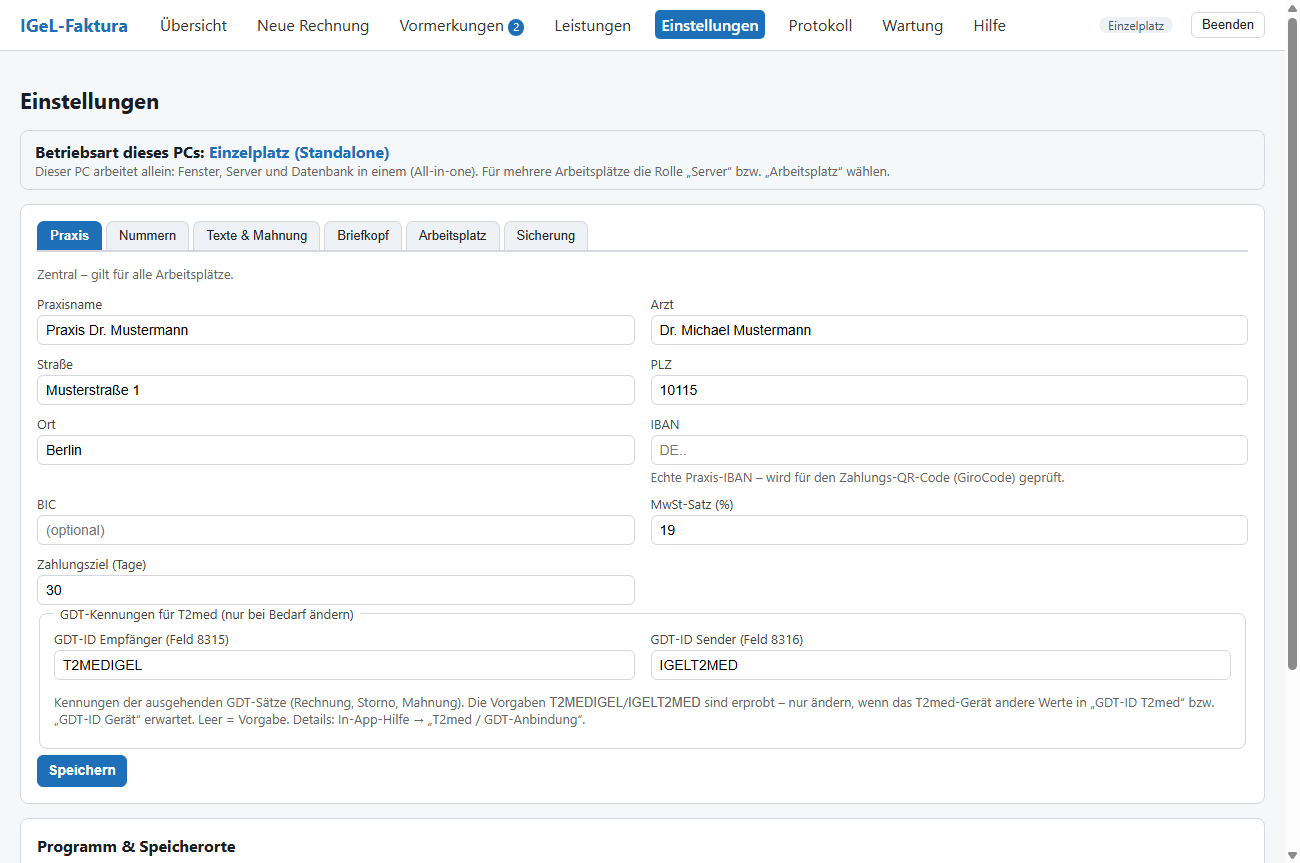
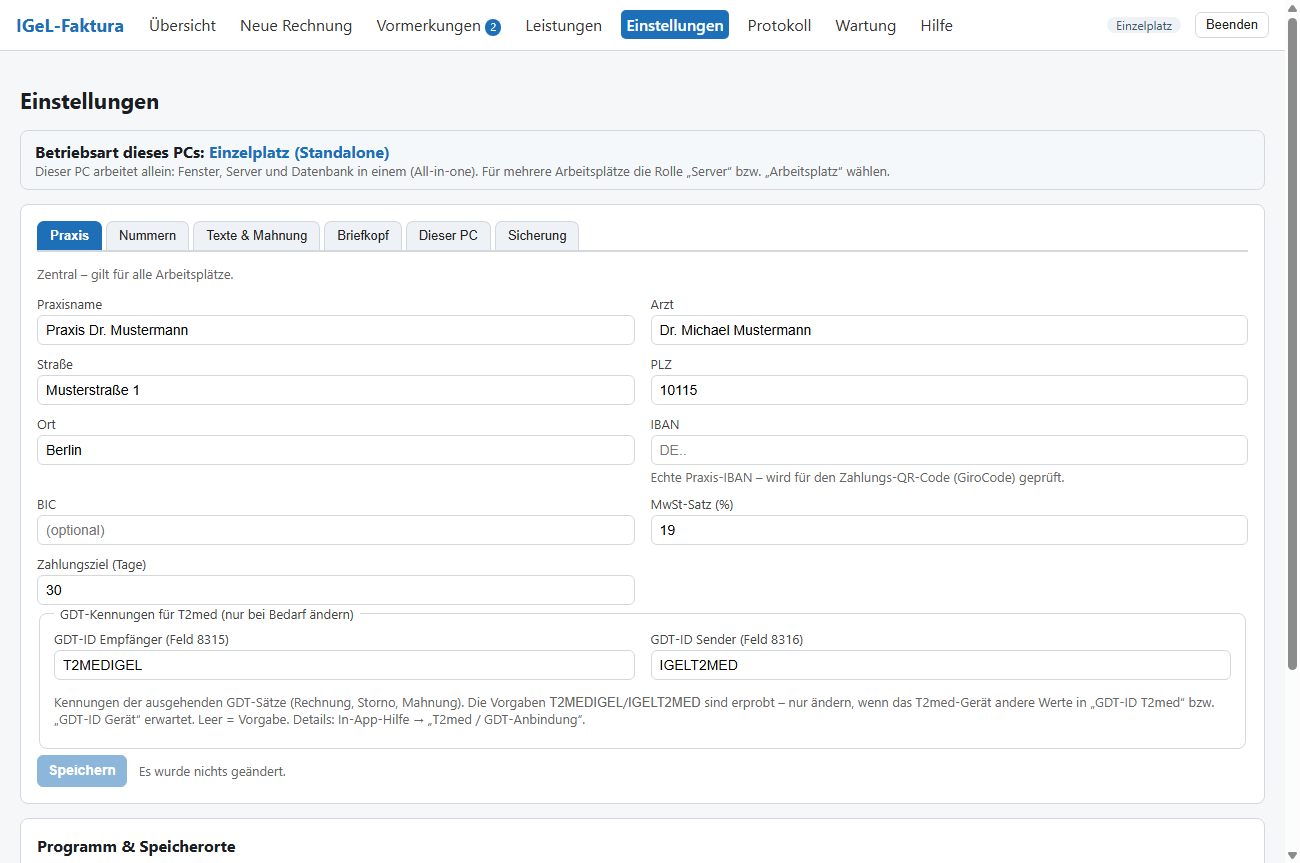
Release v1.8.1

diff --git a/CHANGELOG.md b/CHANGELOG.md
@@ -2,7 +2,110 @@
 
 Alle nennenswerten Änderungen an IGeL-Faktura. Versionierung nach [SemVer](https://semver.org/lang/de/).
 
-## v1.8.1 – 2026-08-03
+## v1.8.1 – 2026-08-15
+
+### Aus dem Praxistest
+- **Vorgemerkte Leistungen: angezeigter Betrag je Zeile stimmt jetzt.** Bei einer Menge größer 1 stand in der Spalte „Betrag" der *Einzelpreis* – „drei weitere Naevi" erschienen mit 20,00 € statt 60,00 €. Abgerechnet wurde immer richtig, aber die Zeilen ergaben nicht die Summe darunter; genau daran prüft man vor dem Abrechnen. Zusätzlich steht die vorgemerkte Summe jetzt auch in der Kopfzeile von „Neue Rechnung" und im Express.
+- **Druck bleibt hängen: klare Meldung statt zwei Minuten Stillstand.** Wartet ein
+  Druckauftrag, bricht das Programm jetzt nach 45 statt 120 Sekunden ab (ein echter
+  Drucker antwortet in Sekunden) und schreibt dabei ins Protokoll, was in der
+  Warteschlange steht – ein steckengebliebener Auftrag blockiert nämlich alle folgenden.
+  Zusätzlich weist das Programm bei „Microsoft Print to PDF" (und XPS) darauf hin, dass
+  dieser „Drucker" jedes Mal ein Fenster mit der Frage nach dem Dateinamen öffnet: Mit
+  jemandem am Bildschirm funktioniert er, unbeaufsichtigt (Server, Express) nicht.
+- Der Druck arbeitet jetzt immer mit vollständigen Dateipfaden. Vorher hing es vom
+  Arbeitsverzeichnis ab, ob die PDF gefunden wurde.
+- **„Arbeitsplatz" ohne Server-Adresse ist keine Falle mehr.** Wer die Rolle umstellte, aber
+  keinen Server auswählte, bekam ein Programm, das sich *Arbeitsplatz* nannte und trotzdem auf
+  einer **eigenen, lokalen Datenbank** arbeitete – die Rechnungen kamen nie am Server an, und
+  niemand merkte es. Die Rolle lässt sich jetzt ohne Server-Adresse **nicht speichern**, und ein
+  Start in diesem Zustand wird mit klarer Erklärung angehalten.
+- **Kein aufblitzendes schwarzes Fenster mehr.** Beim Öffnen der Einstellungen am Server startete
+  kurz ein Konsolenfenster und die Seite hing 1–2 Sekunden – die Abfrage des Autostart-Zustands
+  rief ein Systemprogramm auf. Läuft jetzt unsichtbar und wird kurz gepuffert.
+- **Steuerungs-Tray und Server passen zusammen.** Wurde der Server über die Weboberfläche
+  beendet, blieb ein rotes Icon zurück, dessen Menüpunkte alle ins Leere führten. Das Menü
+  richtet sich jetzt nach dem Zustand: Läuft der Server, gibt es *Verwaltung öffnen* und
+  *Server beenden*; läuft er nicht, **Server starten**. Neu ist *Steuerung schließen* – vorher
+  ließ sich das Icon überhaupt nicht schließen.
+- Der Einstellungsdialog öffnet in sinnvoller Größe (er ging als schmaler Streifen auf) und
+  braucht keinen waagerechten Rollbalken mehr.
+- In den Einstellungen ist der Knopf **Speichern** gesperrt, solange nichts geändert wurde, und
+  auf reinen Anzeige-Seiten ganz ausgeblendet – die Frage „muss ich jetzt noch speichern?"
+  stellt sich nicht mehr.
+
+### Schwarzes Fenster: das Programm hilft sich selbst
+- Auf Rechnern, die **per Remote-Desktop** bedient werden oder als virtuelle Maschine laufen,
+  gibt es für den eingebauten Browser keine nutzbare Grafikbeschleunigung – das Fenster hatte
+  dann zwar einen Rahmen, blieb aber **schwarz**. Bisher stand in der Admin-Anleitung, man solle
+  eine Umgebungsvariable setzen; in einer Praxis ist das keine brauchbare Antwort.
+- Neu **erkennt das Programm eine Remote-Sitzung selbst** und schaltet die Grafikbeschleunigung
+  dort automatisch ab. Für alles, was sich nicht erkennen lässt (z. B. sehr alte Treiber), gibt
+  es den Schalter *Einstellungen → Dieser PC → Anzeige → Grafik*.
+- Zusätzlich bekommt jede Fensterart eine **eigene Browserkern-Ablage**, damit ein Express-Aufruf
+  aus T2med und ein offenes Hauptfenster sich nicht mehr in die Quere kommen.
+
+### Erstattung nach dem Storno einer bezahlten Rechnung
+- Wird eine **bereits bezahlte** Rechnung storniert (Bar/EC sind sofort bezahlt), liegt Geld in
+  der Kasse, dem kein gültiger Beleg mehr gegenübersteht – es gehört dem Patienten zurück.
+  Bisher war davon nirgends etwas zu sehen.
+- Der Storno-Beleg trägt jetzt den Hinweis **„Erstattung offen"** samt Betrag, bis die Auszahlung
+  mit **„Erstattet"** gebucht ist (protokolliert). Auch der **Karteieintrag in T2med** nennt den
+  zu erstattenden Betrag. Der Status bleibt „storno" – ein Gegenbeleg bleibt ein Gegenbeleg
+  (GoBD), die Umsatzsummen ändern sich nicht.
+
+### Einstellungen: nach dem gedacht, was T2med braucht
+- Der Dialog **„Einstellungen dieses PCs"** bildet jetzt den Grundgedanken der Einrichtung ab:
+  **T2med-Gerät 1 – Rechnungen** (Aufruf aus der Karteikarte) und **T2med-Gerät 2 –
+  Rückmeldungen** (dauerüberwacht, für Storno und Zahlungserinnerung) stehen als eigene,
+  erklärte Blöcke da; **Drucker und Anzahl der Ausdrucke** stehen zusammen.
+- Der Reiter hieß „Arbeitsplatz", enthielt aber die Einstellungen des jeweiligen PCs (auch am
+  Server). Er heißt jetzt **„Dieser PC"** – wie der Menüpunkt, und beide zeigen **dieselben**
+  Einstellungen. Warum es beides gibt, steht jetzt in der Hilfe: am Arbeitsplatz kommt die
+  Weboberfläche vom Server, die lokalen Werte müssen aber auch ohne Server erreichbar sein.
+- **Behoben:** Änderungen im nativen Dialog (z. B. Drucker) wirkten erst nach einem Neustart –
+  und wurden beim nächsten Speichern über die Weboberfläche sogar wieder überschrieben.
+- Der Karteieintrag zur **Zahlungserinnerung ist nicht mehr optional** (beim Storno war er es nie):
+  Ist ein Rückmelde-Ordner eingerichtet, entsteht er; ist keiner eingerichtet, sagt das Programm
+  das ausdrücklich, statt die Datei still bei den PDF-Kopien abzulegen.
+- **Zahlungserinnerungen werden jetzt gedruckt** – sie sind Briefe, die das Haus verlassen
+  müssen. „Automatisch drucken" gilt damit für **Rechnungen und Zahlungserinnerungen**;
+  Storno-Belege werden weiterhin nur auf Wunsch über **Drucken** ausgegeben (sonst käme für jede
+  Korrektur ungefragt Papier). Beides steht so auch am Schalter.
+- In der Navigationsleiste lässt sich der Text nicht mehr versehentlich markieren.
+
+### Zahlungserinnerungen und Storno kommen in T2med an
+- **Ein zweites GDT-Gerät, ein Dateiname.** Storno und Zahlungserinnerung entstehen ohne
+  T2med-Aufruf und brauchen darum ein eigenes, **dauerüberwachtes** Gerät. Bisher schrieben sie
+  unter festen Namen (`Mahnung.gdt`/`Storno.gdt`), die ein auf **nummerierte** Dateien
+  eingestelltes T2med schlicht nie ansieht – die Einträge kamen ohne Fehlermeldung nie an.
+- Neu einheitlich: **`T2MDIGRM`** – fest `T2MDIGRM.gdt`, nummeriert `T2MDIGRM.001…999`. Das
+  **Dateischema gilt jetzt für alles**: Rechnungen, Storno und Zahlungserinnerungen. Beide
+  Meldungsarten teilen sich das Gerät, ohne sich zu überschreiben.
+- Die In-App-Hilfe beschreibt die Einrichtung Schritt für Schritt (Modus, Ordner, Dateiname) –
+  einschließlich des Hinweises, T2meds Namensvorschlag zu **überschreiben**.
+
+### Automatisches Update funktioniert wieder
+- **Ursache gefunden:** Das Update benannte den gesamten Programmordner um (z. B. `C:\IGeL` →
+  `C:\IGeL_alt`). Das schreibt in den übergeordneten Ordner – im Laufwerksstamm darf ein
+  normaler Benutzer das nicht (`Zugriff verweigert`). Das Update schlug dadurch **immer** fehl:
+  Es lud herunter, entpackte und brach dann still ab.
+- Neu wird **innerhalb** des Programmordners ersetzt; der Ordner `daten` (Einstellungen,
+  Datenbank) wird dabei **gar nicht mehr bewegt**. Fehlen die Rechte dennoch, fragt das Programm
+  **einmalig** nach Administratorrechten.
+- Das **Update-Protokoll** liegt jetzt neben der Installation statt in einem temporären Ordner –
+  vorher war ein fehlgeschlagenes Update praktisch nicht nachvollziehbar.
+
+### Übersicht bleibt stehen
+- Die Übersicht sprang alle paar Sekunden zurück in „Neue Rechnung", solange ein Patient geladen
+  war – nach dem Abrechnen wurde er nie gelöscht. Jetzt wird nur **einmal je Patienten-Übergabe**
+  gewechselt, und nach dem Abrechnen ist kein Patient mehr geladen.
+
+### Express-Hilfe
+- Die Kurzhilfe im Express beantwortet jetzt auch: heute nur erfassen statt abrechnen, am letzten
+  Termin alles gemeinsam abrechnen, zwei Behandlungen parallel trennen, was der Wartehinweis
+  „⏳ … an T2med" bedeutet.
+
 
 ### Karteieinträge gehen nicht mehr verloren (GDT-Warteschlange)
 - **Mehrere Rückmeldungen auf einmal sind jetzt sicher.** T2med liest jede Rückmeldung unter

diff --git a/README.md b/README.md
@@ -20,6 +20,10 @@ IGeL-Faktura erstellt Privat-/IGeL-Rechnungen aus den Patientendaten von **T2med
 
 ![Offene Vormerkungen](docs/vormerkungen.png)
 
+**Abrechnen mit Auswahl** – was angehakt ist, kommt auf die Rechnung; der Rest bleibt vorgemerkt.
+
+![Was soll auf die Rechnung?](docs/abrechnen.png)
+
 <details>
 <summary><b>Weitere Ansichten</b> – Leistungsmenü, Einstellungen, GOÄ-Katalog, Konto-Abgleich, Mehrplatz</summary>
 
@@ -32,6 +36,10 @@ IGeL-Faktura erstellt Privat-/IGeL-Rechnungen aus den Patientendaten von **T2med
 **Einstellungen**
 
 ![Einstellungen](docs/einstellungen.png)
+
+**Einrichtung dieses PCs** – die beiden T2med-Geräte (Rechnungen / Rückmeldungen), Drucken, Anzeige
+
+![Einstellungen – Dieser PC](docs/einstellungen-dieser-pc.png)
 
 **GOÄ-Katalog durchsuchen**
 
@@ -52,10 +60,10 @@ IGeL-Faktura erstellt Privat-/IGeL-Rechnungen aus den Patientendaten von **T2med
 - **T2med / GDT-Anbindung** – der Patient kommt automatisch per GDT; die PDF-Rechnung und die GDT-Rückgabe landen wieder bei T2med.
 - **Privat-/IGeL-Rechnungen als PDF** (DIN-5008-Layout), mit **GiroCode / EPC-QR-Code** zum bequemen Bezahlen.
 - **Gemischte MwSt** (steuerfreie und steuerpflichtige Leistungen) auf einer Rechnung – korrekt nach Steuersätzen aufgeschlüsselt (§14 UStG).
-- **Revisionssicher / GoBD** – gebuchte Rechnungen werden nicht geändert oder gelöscht (Storno statt Korrektur), fortlaufende eindeutige Nummern, lückenloses Protokoll. Ein **Storno** ist ausdruckbar (deutlich als ungültig gekennzeichnet) und wird als negativer **Karteieintrag an T2med** zurückgemeldet.
-- **Sammelrechnung für mehrterminige Behandlungen** – Sitzungen einer Impf- oder Plasma-/PRP-Serie am Behandlungstag mit einem Klick **vormerken** („Vormerken & schließen"; T2med erhält dabei den Vermerk *vorgemerkt* in die Akte) und bei der letzten Sitzung mit **einem** Knopf gemeinsam abrechnen – **eine** Rechnung mit je Sitzung eigenem **Leistungsdatum**. Eine Übersicht „Offene Vormerkungen" sorgt dafür, dass keine Serie vergessen wird.
+- **Revisionssicher / GoBD** – gebuchte Rechnungen werden nicht geändert oder gelöscht (Storno statt Korrektur), fortlaufende eindeutige Nummern, lückenloses Protokoll. Ein **Storno** ist ausdruckbar (deutlich als ungültig gekennzeichnet) und wird als negativer **Karteieintrag an T2med** zurückgemeldet. War die stornierte Rechnung schon **bezahlt**, führt das Programm den Betrag als **offene Erstattung** an den Patienten, bis die Auszahlung gebucht ist – auch in der Karteikarte.
+- **Vormerken statt abrechnen** – für zwei Alltagsfälle: (1) **mehrterminige Behandlungen**, die am Ende *eine* Rechnung ergeben, und (2) die **Arbeitsteilung zwischen Behandlungszimmer und Anmeldung** – wer behandelt hat, hakt die Leistungen an; die Zahlungsart (Karte oder Überweisung) entscheidet sich erst vorn, wo die MFA die Vormerkung sieht und abrechnet. Sitzungen einer Impf- oder Plasma-/PRP-Serie werden am Behandlungstag mit einem Klick **vorgemerkt** (erfassen, aber noch nicht abrechnen; T2med erhält dabei den Vermerk *vorgemerkt* in die Akte). Beim Abrechnen wird auf einer eigenen Seite gewählt, **was auf die Rechnung soll** – nicht Gewähltes bleibt vorgemerkt, sodass **zwei parallel laufende Behandlungen getrennt** abgerechnet werden können. Ergebnis: **eine** Rechnung mit je Sitzung eigenem **Leistungsdatum**.
 - **Karteieinträge gehen nicht verloren** – Rückmeldungen an T2med (Rechnung, Storno, Zahlungserinnerung) warten in einer **Warteschlange**, bis T2med die vorige Datei eingelesen hat: keine wird überschrieben oder verworfen, auch wenn viele auf einmal entstehen. Wartende Einträge sind in der Kopfzeile sichtbar.
-- **Zahlungserinnerungen** für überfällige Rechnungen (mit optionaler GDT-Datei für T2med).
+- **Zahlungserinnerungen** für überfällige Rechnungen – werden wie Rechnungen gedruckt und als Karteieintrag an T2med zurückgemeldet.
 - **Leistungsmenü** mit Kategorien, Drag-&-Drop-Sortierung und CSV-Import.
 - **GOÄ-Katalog** – das amtliche Gebührenverzeichnis durchsuchen und Positionen mit einstellbarem Steigerungsfaktor als eigene Leistungen übernehmen.
 - **Konto-Abgleich** – Kontoumsatz-CSV einlesen (deutsche **oder englische** Spaltenüberschriften), Zahlungseingänge automatisch zuordnen und sammelweise als bezahlt buchen. Farb-Ampel (🟢 über die Rechnungsnummer erkannt / 🟠 nur vermutet); eine Sammelüberweisung kann mehrere Rechnungen auf einmal begleichen.
@@ -75,8 +83,14 @@ IGeL-Faktura läuft auf **Windows und Linux** – Server und Arbeitsplätze dür
    - **Windows:** `IGeL-Faktura.exe`
    - **Linux:** `./IGeL-Faktura`
 3. In den **Einstellungen** Praxisdaten, IBAN/BIC, GDT-Ordner und Drucker eintragen.
-4. **T2med**: den Express-Aufruf auf das Programm mit dem Argument `--express` einrichten
-   (Windows z. B. `…\IGeL-Faktura.exe --express`).
+4. **T2med**: zwei GDT-Geräte anlegen –
+   **Gerät 1 „Rechnungen"** im Modus *Aufruf für jede einzelne Messung* mit dem Aufruf
+   `…\IGeL-Faktura.exe --express` (so kommt der Patient herein und die Rechnung zurück), und
+   **Gerät 2 „Rückmeldungen"** im Modus *Programm läuft eigenständig* auf einen dauerhaft
+   überwachten Ordner – dort landen Storno und Zahlungserinnerung, die ja **ohne** Aufruf aus
+   der Karteikarte entstehen (einzulesende Datei: `T2MDIGRM`). Die beiden Ordner trägt man im
+   Programm unter *Einstellungen → Dieser PC* ein; die In-App-Hilfe führt Schritt für Schritt
+   durch beide Geräte.
 
 **Unterstützte Systeme:** Windows 11 · Ubuntu 22.04 / 24.04 LTS.
 Die ausführliche Administrator-Anleitung (`README.txt`) liegt jedem Paket bei.
